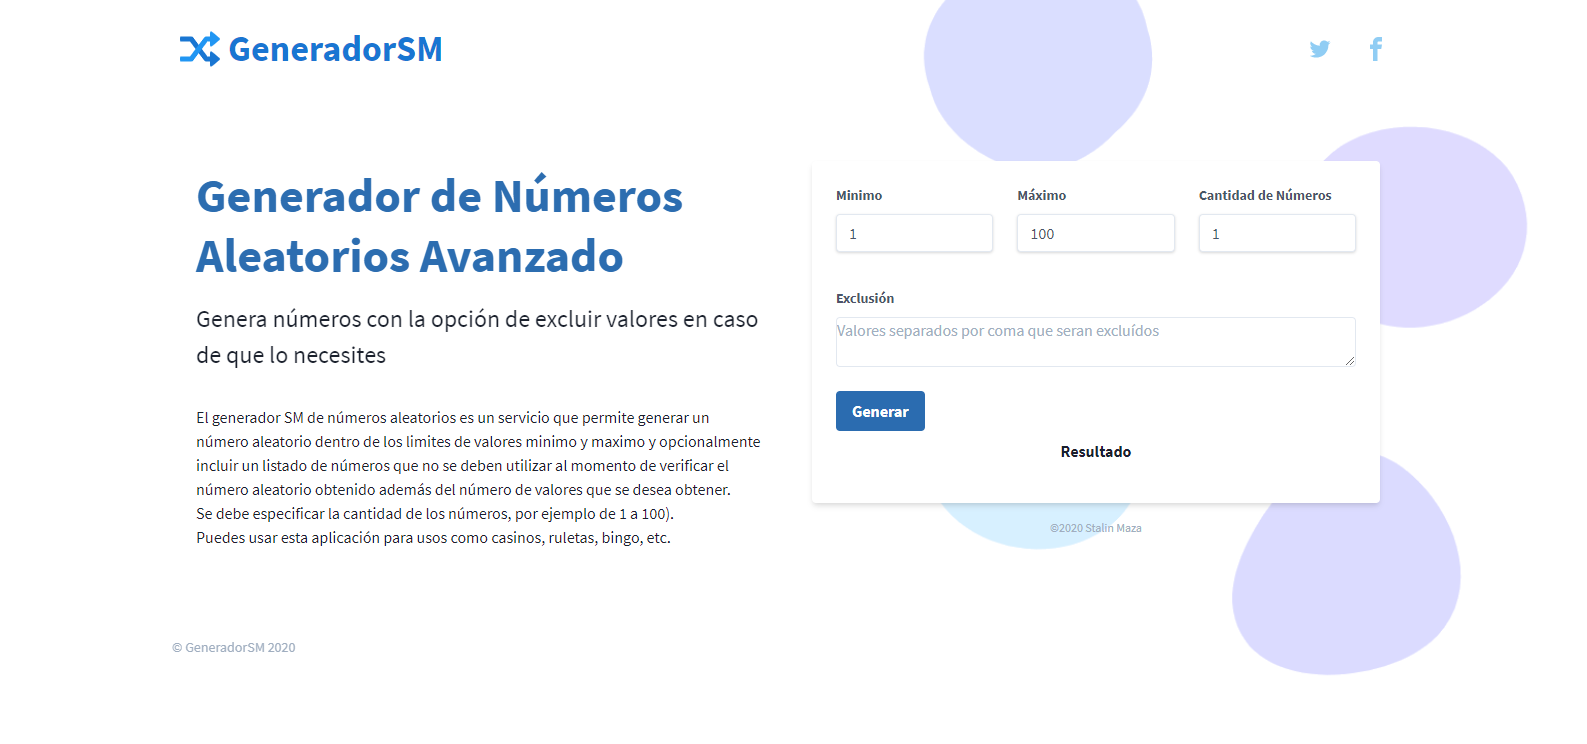
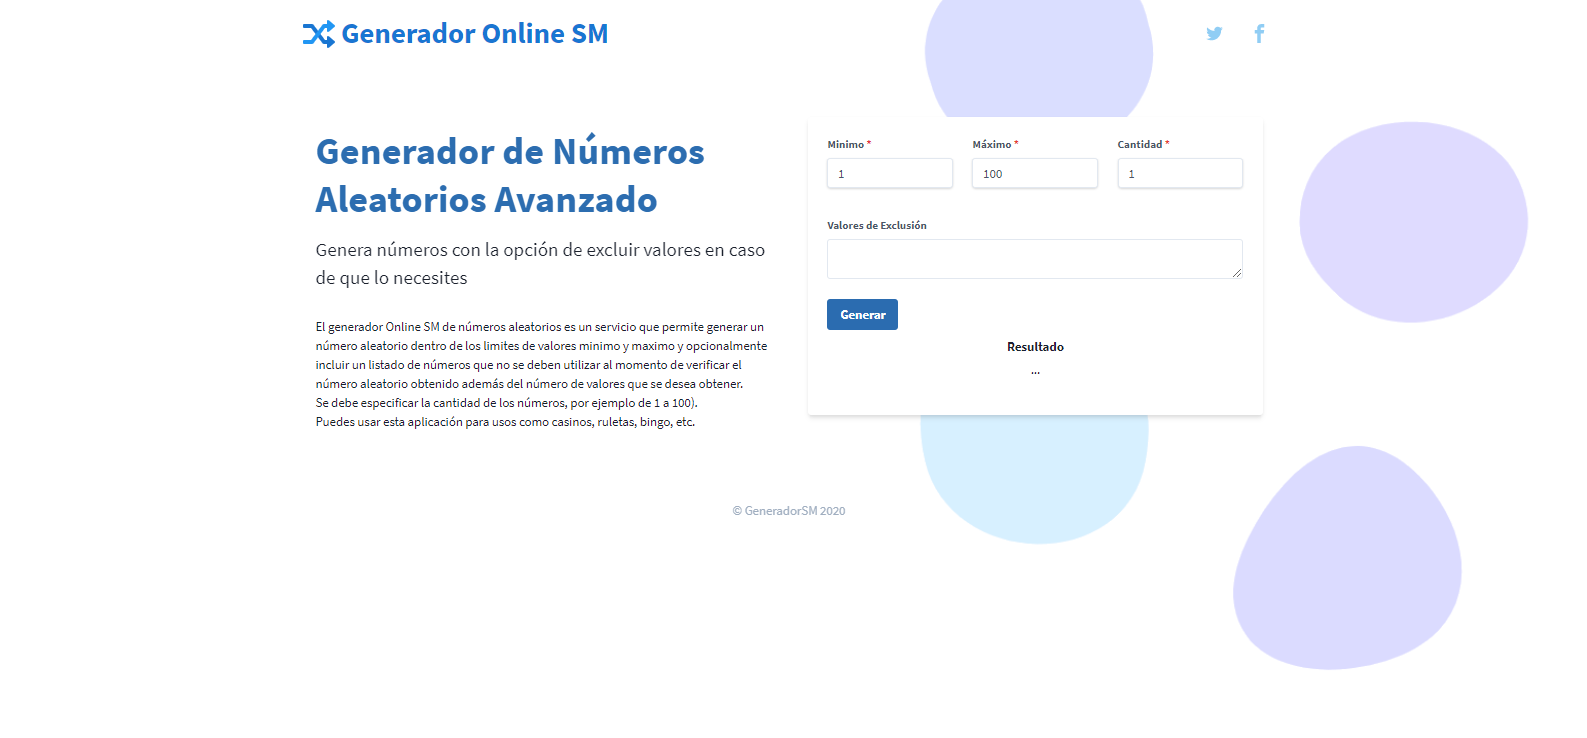
mejoras de diseño y notificaciones

diff --git a/main.js b/main.js
@@ -1,31 +1,29 @@
-
-
 //Función para generar un randomInt
-function getRandomInt(min, max) { 
-    return Math.floor(Math.random() * (max - min + 1)) + min; 
-} 
+function getRandomInt(min, max) {
+    return Math.floor(Math.random() * (max - min + 1)) + min;
+}
 
 //Función para obtener aleatorios de varios numeros
-function generateManyExcludeNumbers(min, max, excludesArr, numberOfResults = 1){
+function generateManyExcludeNumbers(min, max, excludesArr, numberOfResults = 1) {
     const multiplyFactor = 2;
     let tempArr = [];
     let counterExists = 0;
-    
+
     for (let i = 0; i < numberOfResults; i++) {
-    	const generatedNumber = getRandomInt(min, max, excludesArr);
+        const generatedNumber = getRandomInt(min, max, excludesArr);
         const existsOnTemp = tempArr.some(temp => temp === generatedNumber);
         const existsOnExclude = excludesArr.some(exclude => exclude === generatedNumber);
 
-  		if (existsOnTemp || existsOnExclude ) {
-            if(counterExists < (numberOfResults *multiplyFactor)){
+        if (existsOnTemp || existsOnExclude) {
+            if (counterExists < (numberOfResults * multiplyFactor)) {
                 i--;
             }
             counterExists++;
             continue;
-  		}else{
-        	tempArr.push(generatedNumber);
+        } else {
+            tempArr.push(generatedNumber);
         }
-	}
+    }
     return tempArr;
 }
 
@@ -45,38 +43,48 @@ function preventNegativesValues(event) {
     return true;
 }
 
-
 //Evento cuando el contenido cargo
-document.addEventListener('DOMContentLoaded', function(){
+document.addEventListener('DOMContentLoaded', function () {
     //Evento cuando el formulario es enviado
-    document.getElementById('generatorSMForm').addEventListener('submit', (event) =>{
+    document.getElementById('generatorSMForm').addEventListener('submit', (event) => {
         event.preventDefault();
+        
         const loadingHtml = '<div class="lds-dual-ring"></div>';
         const processingTime = 800;
         document.getElementById('generateBtn').disabled = true;
         document.getElementById('resultado').innerHTML = loadingHtml;
         //Obtener los valores
-        const minValue = (document.getElementById('minimo').value) ? parseInt(document.getElementById('minimo').value): 1;
-        const maxValue = (document.getElementById('maximo').value) ? parseInt(document.getElementById('maximo').value): 100;
-        const quantityValue = (document.getElementById('cantidad').value) ? parseInt(document.getElementById('cantidad').value): 1;
+        const minValue = (document.getElementById('minimo').value) ? parseInt(document.getElementById('minimo').value) : 1;
+        const maxValue = (document.getElementById('maximo').value) ? parseInt(document.getElementById('maximo').value) : 100;
+        const quantityValue = (document.getElementById('cantidad').value) ? parseInt(document.getElementById('cantidad').value) : 1;
         const excludesValue = document.getElementById('exclusion').value;
+
+        if (quantityValue > (maxValue - minValue)) {
+            document.getElementById('resultado').innerHTML = '<span>' + '</span>';
+            document.getElementById('generateBtn').disabled = false;
+            return new Toast({
+                message: 'La cantidad debe ser menor al rango entre el valor máximo y minimo',
+                type: 'warning'
+            });
+        }
+
         //Filtrar valores no válidos
         let excludesValuesArr = (excludesValue && excludesValue != '') ? excludesValue.split(',')
-        .map(value => parseInt(value))
-        .filter(value => {
-            return !isNaN(value) && typeof value === 'number' && value >= minValue && value <= maxValue
-        })
-         : [];
-        excludesValuesArr = excludesValuesArr.filter((value,indice) => excludesValuesArr.indexOf(value) === indice)
+            .map(value => parseInt(value))
+            .filter(value => {
+                return !isNaN(value) && typeof value === 'number' && value >= minValue && value <= maxValue
+            })
+            : [];
+        excludesValuesArr = excludesValuesArr.filter((value, indice) => excludesValuesArr.indexOf(value) === indice)
         //Llamar a la función para obtener los números aleatorios
         let randomNumbers = generateManyExcludeNumbers(minValue, maxValue, excludesValuesArr, quantityValue);
-        
+
         //Mostrar el resultado
         setTimeout(() => {
             document.getElementById('exclusion').value = excludesValuesArr.toString();
             document.getElementById('resultado').innerHTML = '<span>' + randomNumbers.toString() + '</span>';
             document.getElementById('generateBtn').disabled = false;
         }, processingTime)
-        
+
     });
 })

diff --git a/assets/toastjs.min.js b/assets/toastjs.min.js
@@ -1,0 +1,133 @@
+'use strict';
+
+function Toast(options) {
+
+    if (!options.message) {
+        throw new Error('Toast.js - You need to set a message to display');
+        return;
+    }
+
+    this.options = options;
+    this.duration = options.duration || 2000;
+    this.showCloseButton = options.showCloseButton || true;
+    this.options.type = options.type || 'default';
+
+    this.toastContainerEl = document.querySelector('.toastjs-container');
+    this.toastEl = document.querySelector('.toastjs');
+    this.transitionTime = 1200;
+    this._init();
+}
+
+Toast.prototype._createElements = function () {
+    var _this = this;
+
+    return new Promise(function (resolve, reject) {
+
+        _this.toastContainerEl = document.createElement('div');
+        _this.toastContainerEl.classList.add('toastjs-container');
+        _this.toastContainerEl.setAttribute('role', 'alert');
+        _this.toastContainerEl.setAttribute('aria-hidden', true);
+
+        _this.toastEl = document.createElement('div');
+        _this.toastEl.classList.add('toastjs');
+
+        _this.toastContainerEl.appendChild(_this.toastEl);
+        document.body.appendChild(_this.toastContainerEl);
+
+        setTimeout(function () {
+            return resolve();
+        }, 500);
+    });
+};
+
+Toast.prototype._addEventListeners = function () {
+    var _this2 = this;
+    if(document.querySelector('.toastjs-btn--close')){
+        document.querySelector('.toastjs-btn--close').addEventListener('click', function () {
+            _this2._close();
+        });
+    }
+
+    document.querySelector('.toastjs').addEventListener('click', function(){
+        _this2._close();
+    });
+
+    setTimeout(function(){
+        console.log('create elements',  _this2.duration)
+        setTimeout(function(){
+            _this2._close();
+        },  _this2.duration)
+    }, _this2.transitionTime);
+    if (this.options.customButtons) {
+        var customButtonsElArray = Array.prototype.slice.call(document.querySelectorAll('.toastjs-btn--custom'));
+        customButtonsElArray.map(function (el, index) {
+            el.addEventListener('click', function (event) {
+                return _this2.options.customButtons[index].onClick(event);
+            });
+        });
+    }
+};
+
+Toast.prototype._close = function () {
+    var _this3 = this;
+
+    return new Promise(function (resolve, reject) {
+        _this3.toastContainerEl.setAttribute('aria-hidden', true);
+        setTimeout(function () {
+
+            _this3.toastEl.innerHTML = '';
+            _this3.toastEl.classList.remove('default', 'success', 'warning', 'danger');
+
+            if (_this3.focusedElBeforeOpen) {
+                _this3.focusedElBeforeOpen.focus();
+            }
+
+            resolve();
+        }, 1500);
+    });
+};
+
+Toast.prototype._open = function () {
+
+    this.toastEl.classList.add(this.options.type);
+    this.toastContainerEl.setAttribute('aria-hidden', false);
+
+    var customButtons = '';
+    if (this.options.customButtons) {
+        customButtons = this.options.customButtons.map(function (customButton, index) {
+            return '<button type="button" class="toastjs-btn toastjs-btn--custom">' + customButton.text + '</button>';
+        });
+        customButtons = customButtons.join('');
+    }
+
+    this.toastEl.innerHTML = '\n        <p>' + this.options.message + '</p>\n';
+
+    if(this.options.showCloseButton){
+        this.toastEl.innerHTML += '<button type="button" class="toastjs-btn toastjs-btn--close">Cerrar</button>\n';
+    
+        this.focusedElBeforeOpen = document.activeElement;
+        document.querySelector('.toastjs-btn--close').focus();
+    }
+
+    this.toastEl.innerHTML += customButtons + '\n    ';
+
+};
+
+Toast.prototype._init = function () {
+    var _this4 = this;
+
+    Promise.resolve().then(function () {
+        if (_this4.toastContainerEl) {
+            return Promise.resolve();
+        }
+        return _this4._createElements();
+    }).then(function () {
+        if (_this4.toastContainerEl.getAttribute('aria-hidden') == 'false') {
+            return _this4._close();
+        }
+        return Promise.resolve();
+    }).then(function () {
+        _this4._open();
+        _this4._addEventListeners();
+    });
+};

diff --git a/assets/toastjs.min.css b/assets/toastjs.min.css
@@ -1,0 +1,68 @@
+.toastjs-container {
+	position: absolute; /* Fallback */
+	position: fixed;
+	bottom: 30px;
+	left: 30px;
+	width: calc(100% - 60px);
+	max-width: 400px;
+
+	transform: translateX(-150%);
+	transition: transform 1s;
+
+	z-index: 100; /* */
+}
+
+.toastjs-container[aria-hidden="false"] {
+	transform: translateX(0%);
+}
+
+.toastjs {
+	background: #fff;
+	padding: 10px 15px 0; /* No bottom padding because the buttons have a margin-bottom */
+	border-left-style: solid;
+	border-left-width: 5px;
+	border-radius: 4px;
+	box-shadow: 0 2px 5px 0 rgba(0,0,0,0.2);
+}
+
+.toastjs.default {
+	border-left-color: #AAAAAA;
+}
+
+.toastjs.success {
+	border-left-color: #2ECC40;
+}
+.toastjs.warning {
+	border-left-color: #FF851B;
+}
+.toastjs.danger {
+	border-left-color: #FF4136;
+}
+
+
+.toastjs-btn {
+	background: rgb(240,240,240);
+	padding: 5px 10px;
+	border: 0;
+	border-radius: 4px;
+
+	font-family: 'Source Sans Pro', sans-serif;
+	font-size: 14px;
+
+	display: inline-block;
+	margin-right: 10px;
+	margin-bottom: 10px;
+	cursor: pointer;
+}
+
+.toastjs-btn--custom {
+	background: rgb(50,50,50);
+	color: #fff;
+}
+
+
+.toastjs-btn:hover,
+.toastjs-btn:focus {
+	outline: none;
+	box-shadow: 0 2px 5px 0 rgba(0,0,0,0.2);
+}

diff --git a/index.html b/index.html
@@ -15,6 +15,8 @@
     <link rel="stylesheet" href="style.css">
     <!-- Icono -->
     <link rel="shortcut icon" href="favicon.ico" type="image/x-icon">
+    <!-- Notificaciones -->
+    <link rel="stylesheet" href="assets/toastjs.min.css">
     <!-- Meta Tags Principales-->
     <title>Generador Online Números Stalin Maza</title>
     <meta name="title" content="Generador Stalin Maza">
@@ -181,6 +183,6 @@ De Ecuador para el mundo.">
 document.cookie = 'same-site-cookie=foo; SameSite=Lax'; 
 document.cookie = 'cross-site-cookie=bar; SameSite=None; Secure';
 </script>
+<script src="assets/toastjs.min.js"></script>
 <script src="main.js"></script>
-
 </html>
